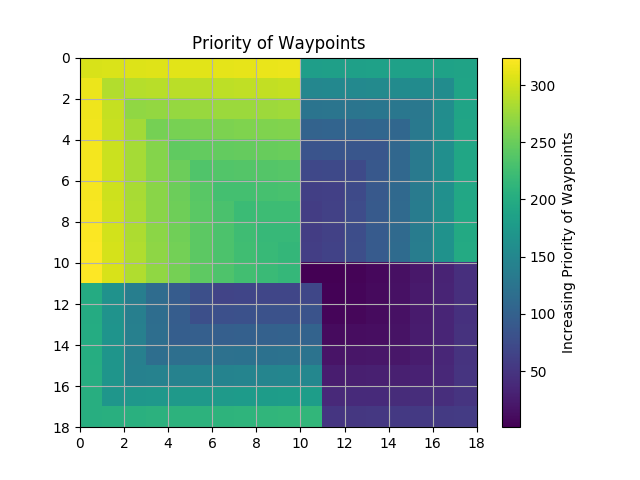
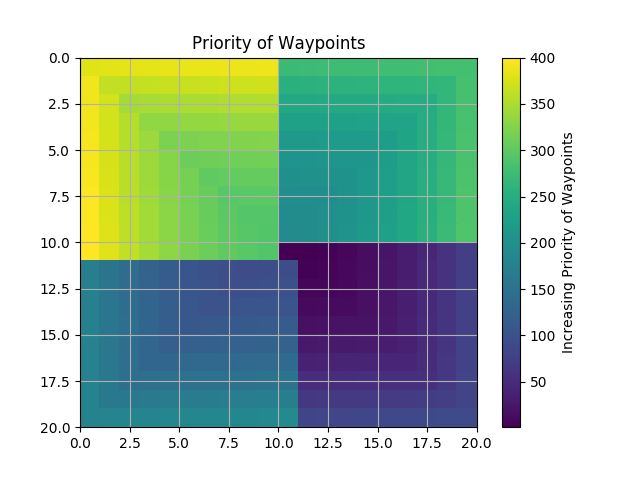
New equation to understand the domain of weights and their assignment to the individual quadrants! It works! Check out the priorityMap.png and weightMap.png under 'assets' and also the .csv file behind their plotting to understand the serialization of the waypoints.

diff --git a/quad/include/quad/weight/src/weight.cpp b/quad/include/quad/weight/src/weight.cpp
@@ -97,7 +97,7 @@ int weight_generator_function(int uav_x_position, int uav_y_position, int surviv
 	/*NOTE: To the user who will be modifying this: As your environment gets bigger you need to manually increase this value to a larger value, other wise with larger iterations
 	the maximum value will be undermined by greater number of iterations.*/
 
-	map[uav_y_position][uav_x_position].weight = 5000;
+	map[uav_y_position][uav_x_position].weight = 211000;
 
 	//Visualizing the for loops as vectors helps. Y direction as vertical movement, X as horizontal movement
 	while ((x_corner_coordinate_1 != uav_x_position))
@@ -108,11 +108,11 @@ int weight_generator_function(int uav_x_position, int uav_y_position, int surviv
 			{
 				if (survivor_direction == 1)
 				{
-					map[j][i].weight += 200;
+					map[j][i].weight += 2110;
 				}
 				else if (survivor_direction == 2)
 				{
-					map[j][i].weight += 11;
+					map[j][i].weight += 210;
 				}
 				else if (survivor_direction == 3)
 				{
@@ -120,7 +120,7 @@ int weight_generator_function(int uav_x_position, int uav_y_position, int surviv
 				}
 				else if (survivor_direction == 4)
 				{
-					map[j][i].weight += 11;
+					map[j][i].weight += 20;
 				}
 				//locator(map, x_max, y_max, uav_x_position, uav_y_position);
 				//std::cout << endl;
@@ -138,15 +138,15 @@ int weight_generator_function(int uav_x_position, int uav_y_position, int surviv
 			{
 				if (survivor_direction == 1)
 				{
-					map[j][i].weight += 11;
+					map[j][i].weight += 20;
 				}
 				else if (survivor_direction == 2)
 				{
-					map[j][i].weight += 200;
+					map[j][i].weight += 2110;
 				}
 				else if (survivor_direction == 3)
 				{
-					map[j][i].weight += 11;
+					map[j][i].weight += 210;
 				}
 				else if (survivor_direction == 4)
 				{
@@ -172,15 +172,15 @@ int weight_generator_function(int uav_x_position, int uav_y_position, int surviv
 				}
 				else if (survivor_direction == 2)
 				{
-					map[j][i].weight += 11;
+					map[j][i].weight += 20;
 				}
 				else if (survivor_direction == 3)
 				{
-					map[j][i].weight += 200;
+					map[j][i].weight += 2110;
 				}
 				else if (survivor_direction == 4)
 				{
-					map[j][i].weight += 11;
+					map[j][i].weight += 210;
 				}
 				//locator(map, x_max, y_max, uav_x_position, uav_y_position);
 				//std::cout << endl;
@@ -198,7 +198,7 @@ int weight_generator_function(int uav_x_position, int uav_y_position, int surviv
 			{
 				if (survivor_direction == 1)
 				{
-					map[j][i].weight += 11;
+					map[j][i].weight += 20;
 				}
 				else if (survivor_direction == 2)
 				{
@@ -206,11 +206,11 @@ int weight_generator_function(int uav_x_position, int uav_y_position, int surviv
 				}
 				else if (survivor_direction == 3)
 				{
-					map[j][i].weight += 11;
+					map[j][i].weight += 210;
 				}
 				else if (survivor_direction == 4)
 				{
-					map[j][i].weight += 200;
+					map[j][i].weight += 2110;
 				}
 				//locator(map, x_max, y_max, uav_x_position, uav_y_position);
 				//std::cout << endl;
